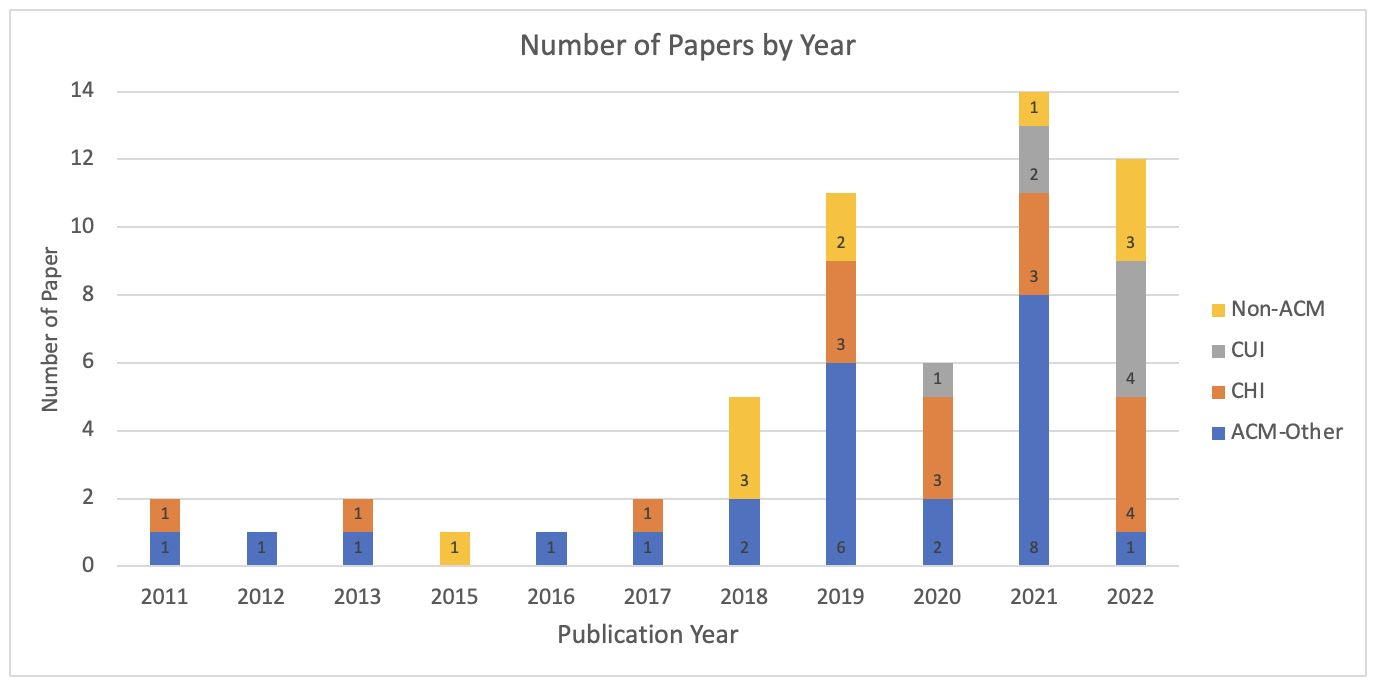
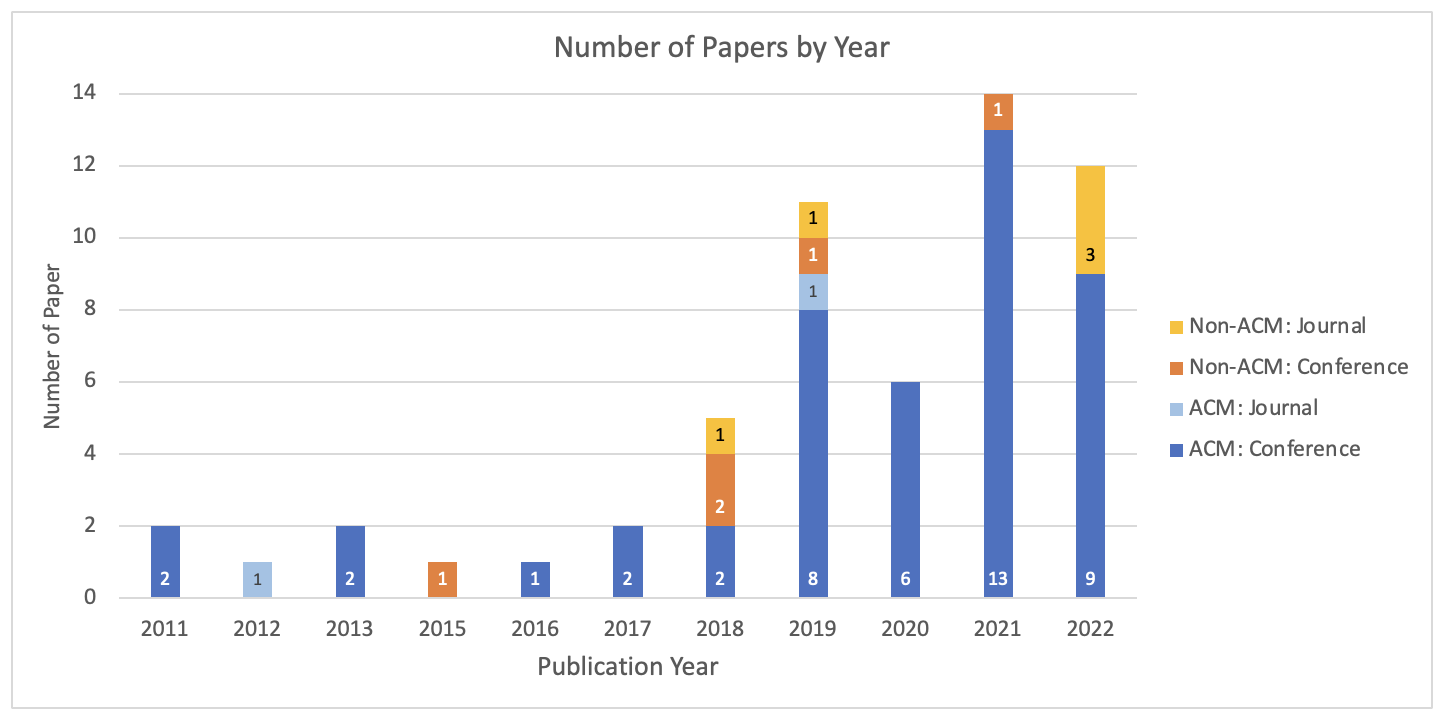
first draft of methods, perceptions and cues sections

diff --git a/paper.tex b/paper.tex
@@ -71,7 +71,7 @@
 %% The "title" command has an optional parameter,
 %% allowing the author to define a "short title" to be used in page headers.
 % \title[short title]{How to Make Pinocchio a Real Boy? Designing conversational architecture elements to achieve desirable anthropomorphized perceptions}
-\title[Bot's Guide to Being Human]{Bot's Guide to Being Human: Investigating the Effect of Conversational Architecture Elements on the Anthropomorphized Perceptions of Conversational Agents}
+\title[Bot's Guide to Being Human]{Bot's Guide to Being Human: Investigating the Effect of Conversation Architecture Elements on the Anthropomorphized Perceptions of Conversational Agents}
 % Blurring the line between human and bots
 
 
@@ -175,7 +175,7 @@ Conversational agents (CAs) are software-based systems, either voice of text-bas
 
 Anthropomorphism is defined as the attribution of traits that we typically associate with being distinctly human to nonhuman entities \cite{waytz2010sees}. For example, users tend to personify conversational agents like Amazon Alexa by using person pronouns instead of object pronouns in online reviews \cite{purington2017alexa}.  Research shows that anthropomorphic design is beneficial to establishing and maintaining trust between users and conversational agents \cite{seeger2021chatbots}. Also, speakers tend to align their lexical choices with conversational agents, similar to human-human conversations \cite{cowan2015does}. Anthropomorphism has been shown to ease user interactions, e.g. making agents more approachable, engaging, and trustworthy when they exhibit human characteristics \cite{qiu2009evaluating}. These processes are of particular interest for human-agent communication because they form the basis for user expectations and predispositions regarding agents' behavior, reliability of the information, etc. \cite{kuzminykh2020genie}.
 
-One of the key factors for anthropomorphized perception is how conversational agents convey information through verbal or non-verbal cues. Studies have found that conversational agents are perceived as more socially present and emotionally intelligent if they use sentiment-adaptive response based on user's utterances, resulting in higher user satisfaction \cite{diederich2019emulating} \cite{yang2017perceived}. Also, CAs that mimic user behaviour through lexical alignment reduce users' cognitive workload, resulting in higher engagement with the interaction \cite{spillner2021talk}. Non-verbal cues such as expressive prosody contribute to higher perceived intimacy with the user, as well as higher perceived enjoyment and ease of use \cite{kim2020can}. However, conversational architecture design may lead to negative consequences, such as an agent with an extroverted personality may be seen as less trustworthy, as users are irritated by the system's overly familiar attitude \cite{andrews2012system}.
+One of the key factors for anthropomorphized perception is how conversational agents convey information through verbal or non-verbal cues. Studies have found that conversational agents are perceived as more socially present and emotionally intelligent if they use sentiment-adaptive response based on user's utterances, resulting in higher user satisfaction \cite{diederich2019emulating}\cite{yang2017perceived}. Also, CAs that mimic user behaviour through lexical alignment reduce users' cognitive workload, resulting in higher engagement with the interaction \cite{spillner2021talk}. Non-verbal cues such as expressive prosody contribute to higher perceived intimacy with the user, as well as higher perceived enjoyment and ease of use \cite{kim2020can}. However, conversational architecture design may lead to negative consequences, such as an agent with an extroverted personality may be seen as less trustworthy, as users are irritated by the system's overly familiar attitude \cite{andrews2012system}.
 
 Even though there are existing research efforts investigating the effect of various conversational architecture elements on the anthropomorphized perception of agents, there is no clear view on the overall landscape on the state of research to understand what has been studied and what needs more efforts. Some reasons for this gap could be due to the lack of consistency in perception measures such as humanness or empathy. There are various questionnaires used in the studies (e.g. Godspeed Questionnaire) but their definitions for perceptions may be different. Also, there are various confounding factors like prior experience and domain of usage that makes it hard to generalize design principles for anthropomorphized perception of agents.
 
@@ -193,22 +193,24 @@ In the remainder of the paper, we first review the existing literature on design
 Design the conversational agents
 
 
-\section{Literature Review}
+%\section{Literature Review}
 
-\cite{finch2020towards} Towards unified dialogue system evaluation: A comprehensive analysis of current evaluation protocols
+%\cite{finch2020towards} Towards unified dialogue system evaluation: A comprehensive analysis of current evaluation protocols
 
-Synthesis on conversational architecture
+%Synthesis on conversational architecture
 
-Synthesis on measures
+%Synthesis on measures
 
-Connections between conversational architecture elements and measures
+%Connections between conversational architecture elements and measures
 
 
 \section{Methods}
 
+This section describes the research methodologies for the search procedure, selection criteria and data analysis process.
+
 \subsection{Search Procedure}
 
-We reviewed and selected relevant literature related to designed conversational architecture elements and perceptions of conversational agent following PRISMA guidelines \cite{prisma}. Searches were carried out in the ACM Digital Library between January 1 and January 15, 2023. Based on search terms used in previously published literature reviews on conversational agents \cite{clark2019state}\cite{rapp2021human} , the following keywords have been identified to search for publications related to conversational user interfaces:
+Following PRISMA guidelines \cite{prisma}, we reviewed and selected literature relevant to the relationships between the specifics of conversation architecture elements and anthropomorphized perceptions of CAs. Searches were carried out in the ACM Digital Library between January 1 and January 15, 2023. During initial analysis, it didn't seem like there were common terms used to refer to either conversation architecture elements, or anthropomorphized perceptions. As such, search terms were kept general to literature related to conversational agents. Based on search terms used in previously published literature reviews \cite{clark2019state}\cite{rapp2021human} , the following keywords have been identified to search for publications related to conversational user interfaces:
 \newline
 
 \begin{mdframed}
@@ -219,12 +221,13 @@ We reviewed and selected relevant literature related to designed conversational 
 The initial query retrieved 2901 unique publications. The following selection criteria are applied to identify literature related to the effect of conversational architecture on perception of agents:
 \begin{itemize}
   \item Peer-reviewed publications written in English
-  \item Voice-based or text-based disembodied conversational agents
-  \item Experiment study on the impact of designed conversational architecture elements on the perception of agents.
-  \item Measures the perceptions of the interaction or perceptions of the agent as part of the study
+  \item Voice-based or text-based conversational agents
+  \item Experiment study on the impact of conversation architecture elements on the anthropomorphized perceptions of agents
+  \item Impact of conversation architecture elements can be separated from other effects (e.g. embodiment)
+
 \end{itemize}
 
-We screened the titles and abstracts of the papers based on the selection criteria below which resulted in 221 papers. Reviewing the full articles of these publication resulted in 49 papers for analysis. An additional search for related literature was also performed to find new publications, adding 8 more papers to the corpus.
+We screened the titles and abstracts of the papers based on the selection criteria below which resulted in 221 papers. Reviewing the full articles of these publication resulted in 49 papers for analysis. An additional search for related literature was also performed to find new publications, adding 8 more papers to the corpus. We identified 57 relevant articles that met our selection criteria (see Figure \ref{fig:prisma}).
 
 \begin{figure}[h]
   \centering
@@ -233,15 +236,11 @@ We screened the titles and abstracts of the papers based on the selection criter
   \label{fig:prisma}
 \end{figure}
 
-Figure \ref{fig:prisma}
+\subsubsection*{Literature Corpus Characteristics}
 
-\subsection{Data Analysis}
+The papers reviewed (n=57) were published between May 2011 and November 2022. More than 75\% of the papers were published in or after 2019, with a slight trend upwards over the years (see Figure \ref{fig:paper}). The vast majority of the papers in our corpus were published in conference proceedings (n=50), with the remainder papers published in journals. Out of the papers published in conferences, the top conferences were The ACM Conference on Human Factors in Computing Systems (n=16), Conversational User Interfaces (n=7), Human-Agent Interaction (n=4), and Intelligent Virtual Agents (n=4). Out of the papers published in journals, some venues include the International Journal of Human-Computer Interaction (n=2) and Interacting with Computers (n=1).
 
-
-
-\subsection{Dataset Characteristics}
-
-* Year and publication venue
+On the modality characteristics of the conversational agents in the corpus, there is a roughly even split between the modalities, with slightly more papers (n=30) studying voice-based CAs, and the rest (n=27) studying text-based CAs.
 
 \begin{figure*}[h]
   \centering
@@ -250,42 +249,39 @@ Figure \ref{fig:prisma}
   \label{fig:paper}
 \end{figure*}
 
-Figure \ref{fig:paper}
+\subsection{Data Analysis}
 
+\subsubsection*{Anthropomorphized Perceptions}
+The exact quotes of anthropomorphized perception measurements were extracted from each paper. Inductive thematic analysis was used to group these verbatim quotes into codes based on their meanings. For example, the code likeability of the agent contains the questionnaire item "this voice agent was likeable" used by \cite{cuadra2021my}\cmt{[67]}, Godspeed questionnaire \cite{bartneck2009measurement}\cmt{godspeed}'s set of questions on likeability used by \cite{linnemann2018can}\cmt{[15]}, and Subjective Assessment of Speech System Interface (SASSI) questionnaire \cite{hone2000towards}\cmt{sassi}'s set of questions on likeability used by  \cite{chan2021kinvoices}\cmt{[74]}\cite{choi2020nobody}\cmt{[54]}. This step resulted in 83 unique codes. The codes are then organized based similarity of the meanings, resulting in 11 basic themes. For example, the basic theme of \textit{personality traits} of the agent contains measurements such as likeability, friendliness, and warmth. Lastly, the 11 basic themes are categorized into 4 organizing themes: \textit{perception of interaction with agent, perception of agent's ability, perception of social connection with agent, and perception of agent's humanness} (Table \ref{tab:perceptions}).
 
-\newline
-* Modality - voice vs. text Table \ref{tab:modality}
+\subsubsection*{Conversation Architecture Elements}
+The conversation architecture elements used in the study were extracted from each paper. Some of the papers were applying multiple elements to the CA design, such as the the anthropomorphic design used in this study \cite{seeger2021chatbots}\cmt{[35]}. In the case where multiple elements were used, the codes broke down the conversation architecture into its core components. For example, the anthropomorphic design used in Seeger et al's study \cite{seeger2021chatbots}\cmt{[35]} was broken down to the elements of emotional expressions, is-typing indicator, emoticons, and response delay to capture as codes. 58 unique codes were created as part of this process, capturing elements like sentiment-adaptive responses \cite{diederich2019emulating}\cmt{[25]}, lexical alignment \cite{spillner2021talk}\cmt{[18]}, and typos \cite{westerman2019believe}\cmt{[9]}. Codes were then organized based on similarity of the elements. For example, the basic theme of \textit{disfluency} contains elements of fillers \cite{jeong2019exploring}\cmt{[10]}\cite{wester2015artificial}\cmt{[14]}, interjections \cite{ceha2022expressive}\cmt{[77]}\cite{hu2021enhancing}\cmt{[56]}, and repetitions \cite{yang2021effect}\cmt{[72]}. Lastly, these basic themes are then categorized into organizing themes adapted from the social cues taxonomy structure by Feine et al \cite{feine2019taxonomy}. Based on this paper, the Verbal-Content category is mapped to our organizing theme of \textit{linguistic content}, and the Verbal-Style category is mapped to our organizing theme of \textit{linguistic style}.
+Given our analysis focuses on the text and voice aspects of a conversational agent and does not analyze the embodiment aspects of design, the visual category is not applicable for our analysis. Also, we collapsed the auditory and invisible categories into the organizing theme of \textit{non-linguistic format} (Table \ref{tab:cues}).
 
-\begin{table}[]
-\begin{tabular}{@{}ll@{}}
-\toprule
-\textbf{Modality} & \textbf{No. Papers} \\ \midrule
-Voice             & 35                  \\
-Text              & 27                  \\ \bottomrule
-\end{tabular}%
-\caption{Number of paper for voice and text modalities}
-\label{tab:modality}
-\end{table}
+\subsubsection*{Relationship Between Anthropomorphized Perceptions and Conversation Architecture Elements}
+Based on the codes developed for anthropomorphized perceptions and conversation architecture elements above, we extracted the relationships between perceptions and architecture elements from each paper, noting whether the architecture element had an impact of on the perceptions. Out of the 57 papers, 264 connections between anthropomorphized perceptions and conversation architecture elements were found. To analyze specifically the relationships between the specifics of conversation architecture that affect the anthropomorphized perceptions of CAs, 69 connections that did not result in significant relationships were discarded, resulting in 195 relationships for analysis. For example, the specific connection between style matching and user satisfaction was discarded because Hoegen et al. \cite{hoegen2019end}\cmt{[31]} did not find a significant difference between the style matching agent and the non-style matching agent for overall interaction satisfaction. Out of the 195 relationships, 185 were relationships between individual architecture elements and perceptions. These single architecture element to perception relationships are visualized as a heatmap based on literature coverage within the literature review corpus, as seen in Figure \ref{fig:heatmap-impact}. Perceptions impacted by the composite of multiple architecture elements in an agent will be discussed in more details in the Composite Architecture Elements section.
 
-\section{Anthropomorphized Perceptions}
+\section{Findings}
 
-Here is Table \ref{tab:perceptions} for perceptions.
+TBD
+
+\subsection{Anthropomorphized Perceptions}
 
 \begin{table*}[]
 \resizebox{\textwidth}{!}{%
 \begin{tabular}{@{}lllc@{}}
 \toprule
- & \textbf{Measure}   & \textbf{Contains}                                  & \textbf{No. Papers} \\ \midrule
-\multirow{3}{*}{\textbf{Perception of Interaction with an Agent}}    & Usability       & accuracy, ease of use, efficiency, helpfulness & 23 \\
+\textbf{Category} & \textbf{Theme}   & \textbf{Sample Codes}                                  & \textbf{No. Papers} \\ \midrule
+\multirow{3}{*}{Perception of Interaction with Agent}    & Usability       & accuracy, ease of use, efficiency, helpfulness & 23 \\
  & Engagement         & enjoyment, annoyance, desirable, intention to use  & 28         \\
  & Satisfaction       & service satisfaction, quality of interaction       & 12         \\ \midrule
-\multirow{3}{*}{\textbf{Perception of Agent's Ability}}              & Intelligence    & knowledgeable, intelligent, expertise                             & 11 \\
+\multirow{3}{*}{Perception of Agent's Ability}              & Intelligence    & knowledgeable, intelligent, expertise                             & 11 \\
  & Competence         & competent, capable                                 & 4          \\
  & Trust              & credibility, trustworthy, truthfulness, confidence & 15         \\ \midrule
-\multirow{3}{*}{\textbf{Perception of Social Connection with Agent}} & Social Presence & connectedness, familiarity, similarity, psychological distance    & 18 \\
- & Conversation Tone  & appropriate, expressive, empathetic, persuasive    & 13         \\
+\multirow{3}{*}{Perception of Social Connection with Agent}  & Conversation Tone  & appropriate, expressive, empathetic, persuasive    & 13 \\
+ & Social Presence & connectedness, familiarity, similarity, psychological distance    & 18        \\
  & Intimacy           & intimate, rapport, quality of relationship         & 7          \\ \midrule
-\multirow{2}{*}{\textbf{Perception of Agent's Humanness}}            & Human-likeness  & human-like, natural, artificial, machine-like                     & 20 \\
+\multirow{2}{*}{Perception of Agent's Humanness}            & Human-likeness  & human-like, natural, artificial, machine-like                     & 20 \\
  & Personality Traits & friendly, kind, warm, creepy, likeable, polite     & 27         \\ \bottomrule
 \end{tabular}%
 }
@@ -293,55 +289,69 @@ Here is Table \ref{tab:perceptions} for perceptions.
 \label{tab:perceptions}
 \end{table*}
 
+As shown in Table \ref{tab:perceptions}, there are four organizing themes defined for the anthropomorphized perceptions of conversational agents covering 11 basic themes of perception. The details of each theme are discussed below.
+
+\textbf{Perception of interaction with a CA} evaluates the overall interaction quality users had with the conversational agent. The three basic themes for this perceptions are usability, engagement and satisfaction. \textit{Usability} measures the utilitarian aspects of the interaction, whether it was accurate, easy to use, efficient or helpful. Some commonly used methods to measure usability include the response accuracy portion of the SASSI questionnaire \cite{hone2000towards}\cmt{sassi}, or the NASA Task Load Index (NASA-TLX) \cite{hart1988development}\cmt{nasa} to measure cognitive workload. Questions such as "the system is easy to use" or "it is easy to understand the agent" are also measures of usability. \textit{Engagement} on the other hand measures users' emotional reactions, whether they have enjoyed the conversation with CA, or annoyed or frustrated with the interaction. Some commonly used methods to measure engagement include  the annoyance portion of the SASSI questionnaire \cite{hone2000towards}\cmt{sassi}, and the Use Engagement Scale (UES) \cite{o2018practical}\cmt{ues}. Questions such as "I enjoyed using the system" or "I felt frustrated with the agent" are also measures of engagement. Lastly, \textit{Satisfaction} measures users' overall satisfaction interacting with the agent. Questions such as "the overall assessment of conversing with the CA was satisfactory" are used to measure this perception.
+
+\textbf{Perception of a CA's ability} evaluates the perceived capabilities of the agent. While there are some elements of system performance in this measure, the main aspect we are interested in is the perception differences for agents with identify system capabilities but with different architecture elements. Specifically, \textit{intelligence} measures the agent's expertise and knowledge, and it is commonly administered through the Godspeed questionnaire \cite{bartneck2009measurement}\cmt{godspeed} on the set of questions related to perceived intelligence. Also survey questions such as asking users about the agent's intelligence and domain knowledge are used to measure perceived intelligence. \textit{Competence} takes intelligence one step further by evaluating the agent's ability to put its intelligence into practice. To measure a CA's competence, there are usually surveys or qualitative feedback that the agent is capable and competent, and that the users have confidence in the agent's ability to get the job done. Lastly, \textit{trust} evaluates agent's truthfulness, credibility and benevolence. Some commonly used methods to evaluate trust include the Trust Propensity Scale \cite{mayer1999effect} and the Individualized Trust Scale (ITS) \cite{wheeless1977measurement}. Questions such as "is the agent honest" and "can I trust the agent with sensitive information" are also measures of trust.
+
+\textbf{Perception of the social connection with a CA} evaluates the emotional connections that users have with agents. The three basic themes of conversation tone, social presence and intimacy are included in this category. \textit{Conversation tone} measure the affective impression of the agent's tone, such as empathy, expressiveness, or passionate. Also, it measures whether the tone used by the agent is persuasive or appropriate for the conversation. \textit{Social presence} measures the sense of connectness and psychological distance users has with an agent. Some aspects in this measure include a sense of familiarity or similarity with the agent, whether users feel the agent behaves like them or have similar attitudes to them. The measure of \textit{Intimacy} extends social presence into the realm of the quality of relationships with an agent. Some commonly used measures include the set of social attraction questions from the interpersonal attraction questionnaire \cite{mccroskey1975development} and the quality of relationship inventory (QRI) \cite{pierce1997assessing}. These questionnaires include questions like "I think the agent could be a friend of mine", or "I feel we could establish a personal relationship with each other".
+
+\textbf{Perception of a CA's humanness} evaluates human-likeness and the anthropomorphized personality traits that users assign to agents. \textit{Human-likeness} measures whether the agent presented itself as natural and human-like, or artificial and machine-like. The Godspeed questionnaire \cite{bartneck2009measurement}\cmt{godspeed} set of questions related to anthropomorphism and the Ascent of Man scale \cite{kteily2015ascent} are commonly used methods to assess human-likeness. Survey questions with semantic scales such as "human-like / machine-like" and "artificial / natural" are also used for this perception. \textit{Personality traits} captures the human characteristics that are attributes to the agent, such as warm, friendly, likeable, and polite. This is commonly captured in the qualitative feedback from users, commenting on whether the agent is extroverted or introverted, or the human characteristics they perceive the agent such as funny or witty. Some studies used the measure of the Big-5 personality traits \cite{gosling2003very} to map an agent's disposition on various personality dimensions.
+
+Overall there is good coverage of perception measures based on the list of papers reviewed in our corpus. The most commonly measured perceptions are related to the interaction with agent, followed by the perception of agent's humanness. There are two basic themes that are the least measured compared to the others: competence under the perception of agent's ability, and intimacy under the perception of social connection with agent. This may be due to the controlled lab settings for the experiments, where participants are given the scenarios for interaction. This environment is not conducive to forming relationships with a conversational partner, as noted by Linnerman et al. in their discussions \cite{linnemann2018can}\cmt{[15]}. Also, the same factor could impact the assessment of agent's abilities, as the users may not feel like they have the expertise to assess an agent's competence. These factors could contribute to the reasons why competency and intimacy are not as frequently measured in experimental studies.
+
+% Add citations
+
+\subsection{Conversation Architecture Elements}
+
+As shown in Table \ref{tab:cues}, there are three categories defined for the conversation architecture elements covering 10 different themes. The details of each category and theme are discussed below.
+
+The category of \textbf{linguistic content} maps to the content category under verbal cues in Feine et al's taxonomy, which refers to elements expressed with written or spoken words that are related to the strict and literal meaning of a message (i.e. what is said) \cite{feine2019taxonomy}. The theme of \textit{affective language} captures the injection of emotional words or phrases into the agent's utterance, such as affective expressions \cite{seeger2021chatbots}\cmt{[35]}\cite{yang2017perceived}\cmt{[44]}\cite{zhu2022effects}\cmt{[26]}, sentiment-adaptive responses \cite{diederich2019emulating}\cmt{[25]}, and encouraging words \cite{healey2013relating}\cmt{[39]}. \textit{Social talk} captures non-task related conversations with the user to build social connection, such as self-disclosure \cite{lee2020hear}\cmt{[23]} and social dialogue \cite{volkel2021manipulating}\cmt{[68]}\cite{lubold2016effects}\cmt{[86]}. The theme of \textit{humour} is similar to social talk but specific to CA's attempt to include jokes in its utterances. The separation of social talk and humor is based on findings from previous research, where user's attitude towards humour is different between human-human conversations vs. human-agent conversations \cite{clark2019makes}. We would like to capture the relationship between humour and agent perceptions differently from social talk. Lastly, the theme of \textit{agent-initiated content} captures utterances that are driven by the agent without direct prompts from the user. This elements in this theme include conversation repairs \cite{cuadra2021my}\cmt{[67]}\cite{ashktorab2019resilient}\cmt{[88]} and proactive content like eliciting feedback \cite{xiao2021let}\cmt{[73]}.
+
+The category of \textbf{linguistic style} maps to the style category under verbal cues in Feine et al's taxonomy, which refers to elements expressed with written or spoken words that are related to the meaningful deployment of language variation in a message (i.e. how something is said) \cite{feine2019taxonomy}. The theme of \textit{formality} describes the language style used by the conversational agent, whether it is formal vs. casual, such as using honorific expressions to address users \cite{ouchi2019should}\cmt{[59]}. \textit{Alignment} captures the degree that the agent aligns its utterances to the users, such as lexical alignment on the content and structural of the sentences \cite{huiyang2022improving}\cmt{[17]}\cite{linnemann2018can}\cmt{[15]}, as well as agreement with the user \cite{volkel2021examining}\cmt{[69]}. \textit{Elaborateness} captures the sentence complexity and length of the utterances. For example, Roy et al. explored the differences in perception for variations in elaborateness such as "Cloudly, possibility of snow, high: 4, low: -10" vs "Today will be cloudy, with a high of 4 and a low of -10. Snow is predicted" \cite{roy2021users}\cmt{[71]}. Lastly, the category of \textit{disfluency} captures tye style of using non-lexical utterances like filler words ("um, uh") \cite{hu2021enhancing}\cmt{[56]}\cite{jeong2019exploring}\cmt{[10]}, or repetition of words within a sentence \cite{yang2021effect}\cmt{[72]}. 
+
+Lastly, the category of \textbf{non-linguistic format} maps loosely to the elements in auditory and invisible categories in Feine et al's taxonomy \cite{feine2019taxonomy}. These are auditory or textual variations in the presentation of the agent's utterances. In the theme of \textit{prosodic cue}, it captures vocal qualities like gender of voice \cite{habler2019effects}\cmt{[63]}\cite{jestin2022effects}\cmt{[81]}, and speech rate \cite{choi2020nobody}\cmt{[54]}. \textit{Text variations} include different formats that text-based agents use to present information to users, like emoticons \cite{kim2019comparing}\cmt{[89]}\cite{wilhelm2022keep}\cmt{[28]}, typos \cite{westerman2019believe}\cmt{[9]}, and response delays \cite{gnewuch2022opposing}\cmt{[20]}\cite{seeger2021chatbots}\cmt{[35]}.
+
+Overall the spread of conversation architecture elements relevant to anthropomorphized perceptions are evenly distributed across linguistic content, linguistic style, and non-linguistic format.  Looking at the different themes, there is good coverage of studies on the impact of affective language and prosodic cues on anthropomorphized perceptions. However, it seemed like there is a lack of studies exploring the effect of agent-initiative content on the perception of agents. There are various existing literature on this theme such as conversation repairs \cite{komatani2010online}\cite{reinkemeier2022repair} and agent proactively sharing content with users \cite{dubiel2019inquisitive}\cite{zargham2022understanding}, but they were not included in this systematic literature review because they did not have measures of anthropomorphized perceptions of the CA. This may be because conversations with CAs have historically being driven by the user, with some recent effort to understand the opportunities to be more proactive \cite{cowan2023introduction}, as existing research are focused on the functional aspects of designing an agent instead of exploring into the anthropomorphized perceptions.
 
 
-%\multirow{3}{*}{\parbox{2cm}{\textbf{Perception of Interaction with an Agent}}} & Usability & accuracy, ease of use, efficiency, helpfulness & 
-
-%Usability
-%\cite{linnemann2018can}\cmt{[15]}\cite{huiyang2022improving}\cmt{[17]}\cite{spillner2021talk}\cmt{[18]}\cite{kim2020can}\cmt{[24]}\cite{wilhelm2022keep}\cmt{[28]}\cite{ma2022ask}\cmt{[29]}\cite{healey2013relating}\cmt{[39]}\cite{miehle2018exploring}\cmt{[51]}\cite{choi2020nobody}\cmt{[54]}\cite{dubiel2020persuasive}\cmt{[60]}\cite{elsholz2019exploring}\cmt{[61]}\cite{habler2019effects}\cmt{[63]}\cite{kraus2020effects}\cmt{[64]}\cite{cuadra2021my}\cmt{[67]}\cite{roy2021users}\cmt{[71]}\cite{chan2021kinvoices}\cmt{[74]}\cite{hu2022polite}\cmt{[76]}\cite{ceha2022expressive}\cmt{[77]}\cite{haas2022keep}\cmt{[78]}\cite{jestin2022effects}\cmt{[81]}\cite{misu2011toward}\cmt{[83]}\cite{ashktorab2019resilient}\cmt{[88]}\cite{kim2019comparing}\cmt{[89]}
-
-%Engagement
-%\cite{linnemann2018can}\cmt{[15]}\cite{huiyang2022improving}\cmt{[17]}\cite{spillner2021talk}\cmt{[18]}\cite{gnewuch2022opposing}\cmt{[20]}\cite{lee2020hear}\cmt{[23]}\cite{kim2020can}\cmt{[24]}\cite{zhu2022effects}\cmt{[26]}\cite{cox2022does}\cmt{[27]}\cite{ma2022ask}\cmt{[29]}\cite{andrews2012system}\cmt{[38]}\cite{healey2013relating}\cmt{[39]}\cite{miyamoto2017improving}\cmt{[46]}\cite{miehle2018exploring}\cmt{[51]}\cite{fadhil2018effect}\cmt{[52]}\cite{ceha2021can}\cmt{[57]}\cite{elsholz2019exploring}\cmt{[61]}\cite{cuadra2021my}\cmt{[67]}\cite{volkel2021examining}\cmt{[69]}\cite{roy2021users}\cmt{[71]}\cite{yang2021effect}\cmt{[72]}\cite{xiao2021let}\cmt{[73]}\cite{chan2021kinvoices}\cmt{[74]}\cite{volkel2022user}\cmt{[75]}\cite{ceha2022expressive}\cmt{[77]}\cite{go2021conversational}\cmt{[80]}\cite{jestin2022effects}\cmt{[81]}\cite{moilanen2022measuring}\cmt{[82]}\cite{kim2019comparing}\cmt{[89]}
-
-%Satisfaction                                                                 
-%\cite{pfeifer2009should}\cmt{[12]}\cite{gnewuch2018faster}\cmt{[19]}\cite{diederich2019emulating}\cmt{[25]}\cite{wilhelm2022keep}\cmt{[28]}\cite{ma2022ask}\cmt{[29]}\cite{hoegen2019end}\cmt{[31]}\cite{yang2017perceived}\cmt{[44]}\cite{choi2020nobody}\cmt{[54]}\cite{elsholz2019exploring}\cmt{[61]}\cite{habler2019effects}\cmt{[63]}\cite{roy2021users}\cmt{[71]}\cite{hu2022polite}\cmt{[76]}\cite{ceha2022expressive}\cmt{[77]}
-
-Categorization of social cues \newline
-* adapted from Taxonomy of social cues
-* added a middle layer
-* combined elements as we are studying disembodied agents
-
-\section{Conversation Architecture}
-
-Here is Table \ref{tab:cues} for conversation architecture elements.
-
-\begin{table*}[]
+\begin{table*}[h]
 %\resizebox{\textwidth}{!}{%
 \begin{tabular}{@{}lllc@{}}
 \toprule
- & \textbf{Measure}      & \textbf{Contains}                                      & \multicolumn{1}{l}{\textbf{No. Papers}} \\ \midrule
-\multirow{4}{*}{\textbf{Linguistic Content}}    & Affective Language & emotional expressions, sentiment-adaptive responses & 11 \\
+ \textbf{Category} & \textbf{Theme}      & \textbf{Sample Codes}                                      & \multicolumn{1}{l}{\textbf{No. Papers}} \\ \midrule
+\multirow{4}{*}{Linguistic Content}    & Affective Language & emotional expressions, sentiment-adaptive responses & 11 \\
  & Social Talk           & self-disclosure, social dialogue                       & 7                                       \\
  & Humour                & humorous content, jokes                                & 5                                       \\
  & Agent-Initiated Content & elicit user feedback, proactivity, conversation repair & 4                                       \\ \midrule
-\multirow{4}{*}{\textbf{Linguistic Style}}      & Formality          & formal vs. casual, honorific expressions                               & 9  \\
+\multirow{4}{*}{Linguistic Style}     & Formality          & formal vs. casual, honorific expressions                               & 9  \\
  & Alignment             & content matching, lexical alignment, agreeableness     & 7                                       \\
  & Elaborateness         & elaborate, concise, sentence structure                 & 6                                       \\
- & Disfluency            & fillers, interjections, repetitions                    & 5                                       \\ \midrule
-\multirow{3}{*}{\textbf{Non-Linguistic Format}} & Prosody            & pitch, intonation, speech rate, spoken accent                          & 12 \\
- & Text Variation        & typo, capitalization, response delay, typing indicator & 5                                       \\
- & Emotional Cue         & emoticons, laughter                                    & 6                                       \\ \bottomrule
+ & Disfluency            & fillers, interjections, repetitions                    & 6                                       \\ \midrule
+\multirow{2}{*}{Non-Linguistic Format}     & Prosodic Cue            & pitch, intonation, speech rate, spoken accent                          & 12 \\
+ & Text Variation        & typo, capitalization, emoticons, response delay & 9                                         \\ \bottomrule 
 \end{tabular}%
 %}
 \caption{Conversation architecture elements}
 \label{tab:cues}
 \end{table*}
 
+\subsection{Relationship Between Anthropomorphized Perceptions and Conversation Architecture Elements}
+
+
+
+
+
 
 \section{Framework}
 %Wrote based on papers up to [60], 25 papers
 
-\begin{figure*}[h]
+While the number of papers studying voice (n=27) vs. text (n=30) modalities is not significantly different, there are some interesting trends in the perceptions studied for CAs with different modalities. Overall, there are less perceptions of agent studied for text-based agents (n=101) as compared to voice-based agents (n=163).
+ 
+This is especially evident in the perception of social connection with agent and perception of agent's humanness. For the perception of social connection with a CA, there are only 19 perceptions measured for text-based agents, while there are 35 perceptions measured for voice-based agents. Similarly for perception of agent's humanness, there are 36 perceptions measured for text-based agents, as compared to 52 perceptions of voice-based agents. This highlights that there is a 
+
+\begin{figure*}[]
   \centering
   \includegraphics[width=\textwidth]{fig-heatmap-impact.png}
   \caption{Heatmap of literature for perception of conversational agents for each type of conversational architecture element.}
@@ -664,6 +674,12 @@ None of the studies included in this review has found any significant impact of 
 
 %-------------
 \section{Discussions}
+
+%Research challenges and opportunities
+
+%Ethical considerations
+
+%Limitations and future work
 
 \subsection{RQ1 - synthesis of conversation architecture elements}
 
